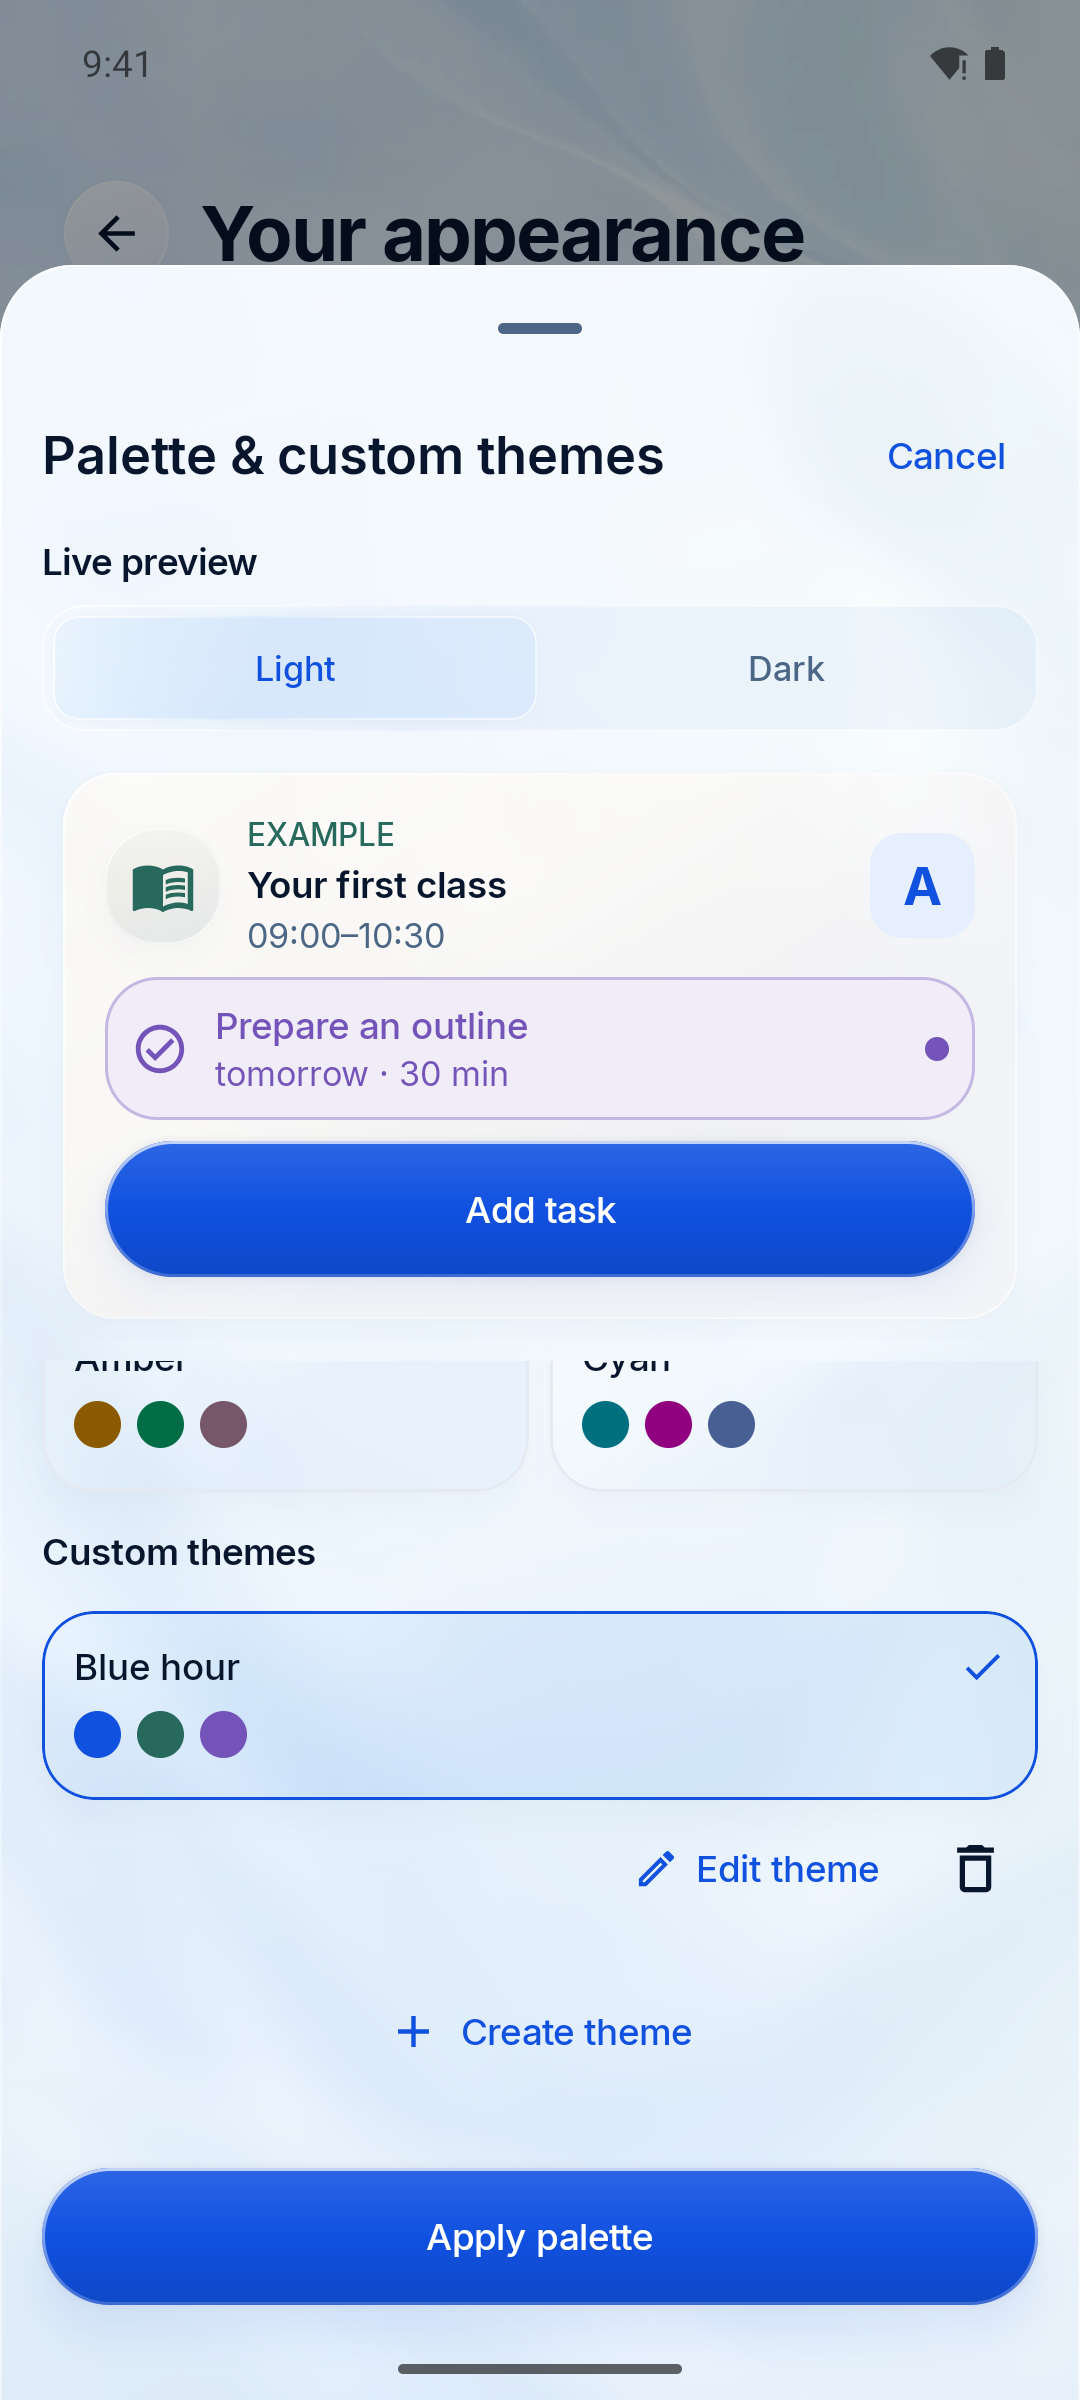
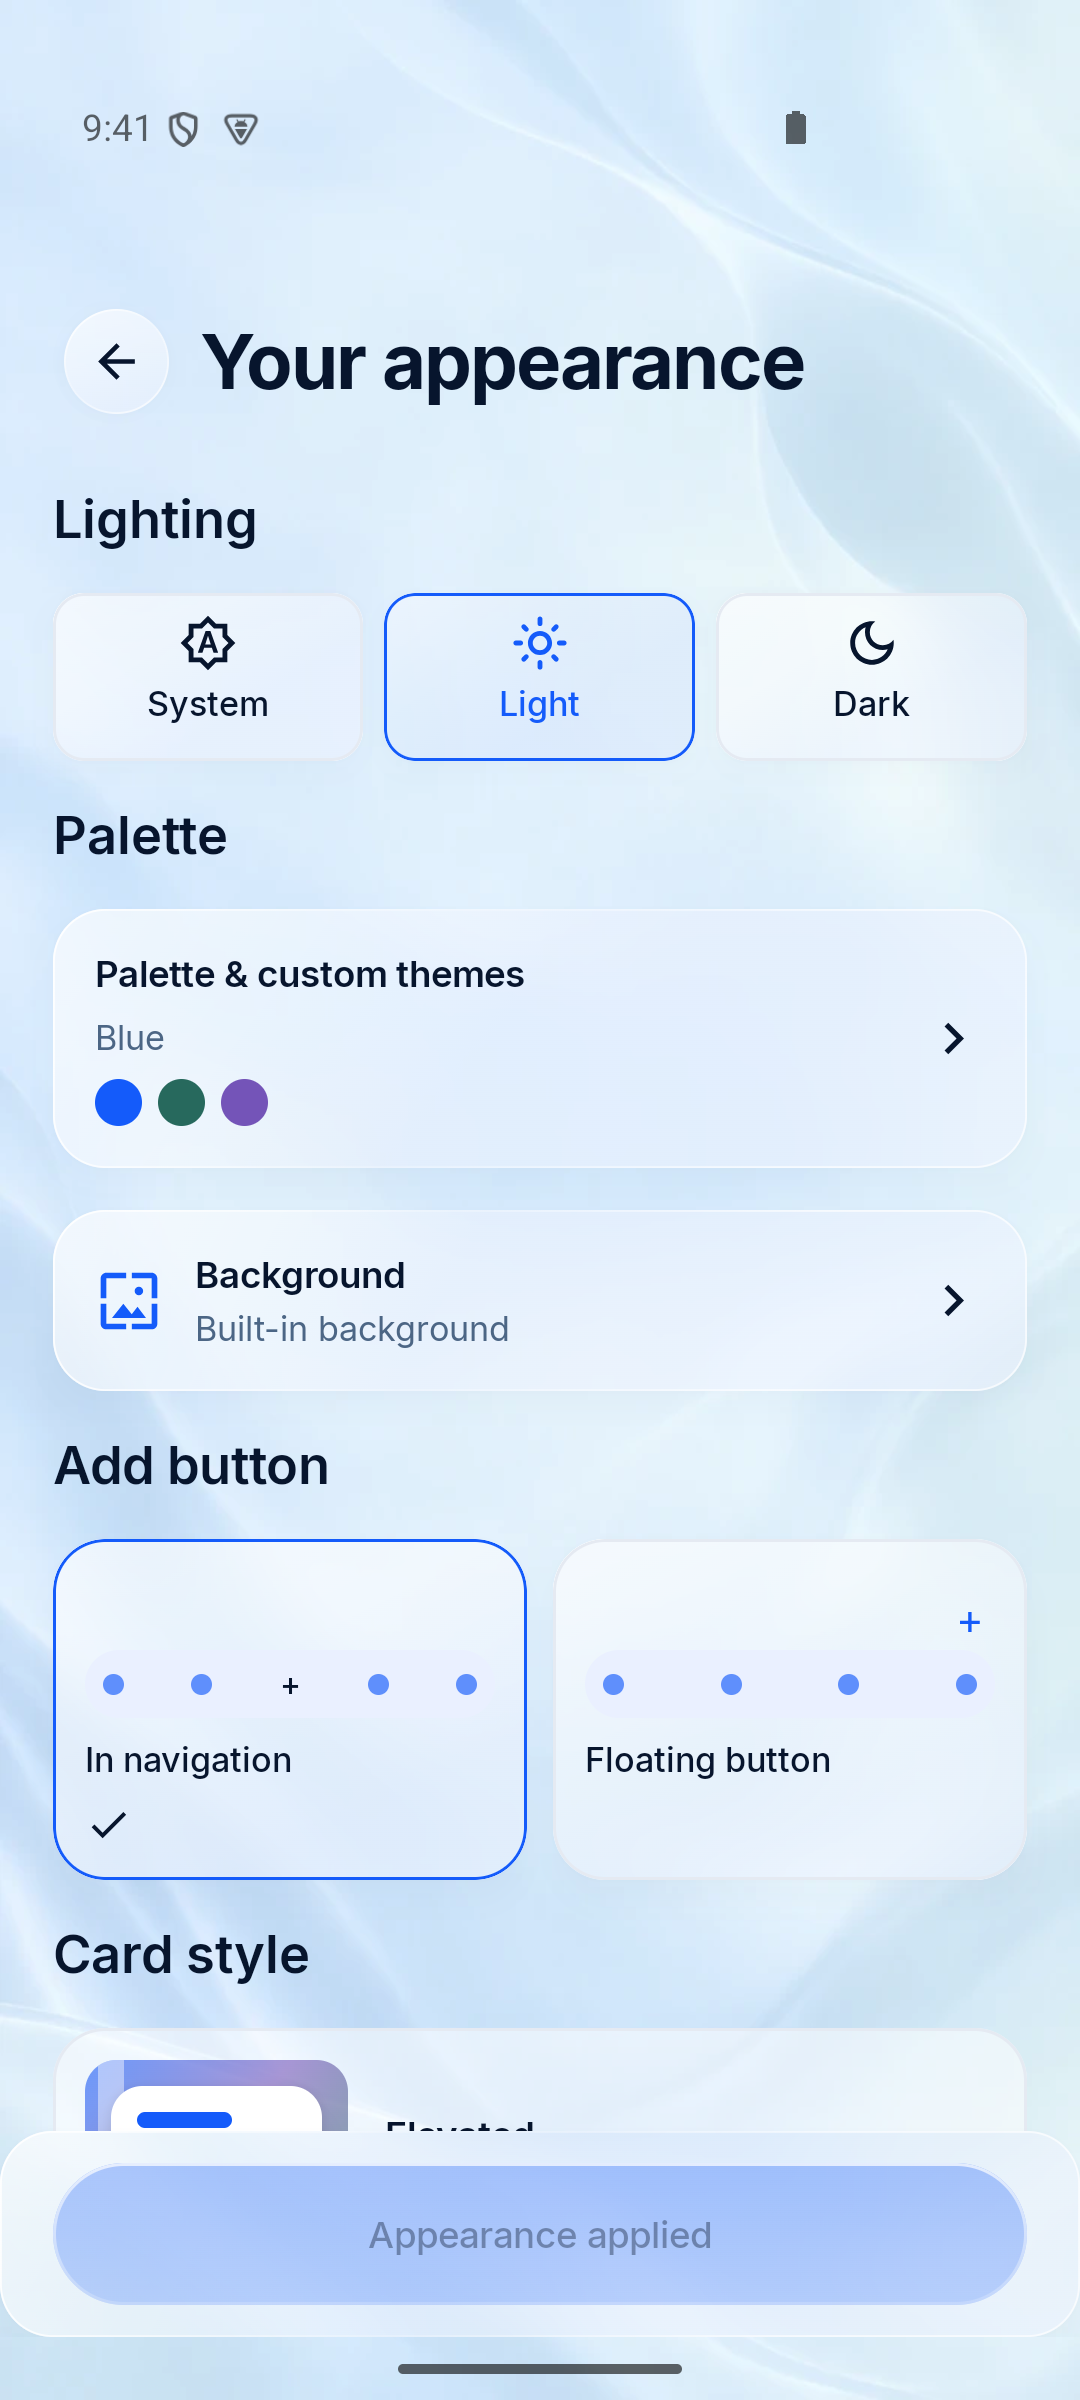
Refresh the 0.4.0 release gallery and document the new Studies experience

diff --git a/app/src/androidTest/java/com/kpyruy/takt/app/ReleaseGalleryTest.kt b/app/src/androidTest/java/com/kpyruy/takt/app/ReleaseGalleryTest.kt
@@ -1,0 +1,155 @@
+package com.kpyruy.takt.app
+
+import androidx.activity.compose.setContent
+import androidx.compose.foundation.layout.*
+import androidx.compose.ui.Modifier
+import androidx.compose.ui.semantics.SemanticsActions
+import androidx.compose.ui.test.*
+import androidx.compose.ui.test.junit4.createAndroidComposeRule
+import androidx.test.platform.app.InstrumentationRegistry
+import com.kpyruy.takt.core.data.*
+import com.kpyruy.takt.core.model.*
+import com.kpyruy.takt.core.ui.components.TaktGlassBackground
+import com.kpyruy.takt.core.ui.i18n.TaktI18n
+import com.kpyruy.takt.core.ui.theme.TaktTheme
+import com.kpyruy.takt.feature.settings.SettingsScreen
+import com.kpyruy.takt.feature.subjects.SubjectDetailScreen
+import kotlinx.coroutines.flow.first
+import kotlinx.coroutines.runBlocking
+import org.junit.Assert.assertTrue
+import org.junit.Assume.assumeTrue
+import org.junit.Rule
+import org.junit.Test
+import java.io.OutputStream
+import java.time.LocalDate
+import java.time.LocalTime
+
+/** Opt-in captures of production screens. All records are fictional and restricted to a review emulator. */
+class ReleaseGalleryTest {
+    @get:Rule val compose = createAndroidComposeRule<MainActivity>()
+    private val data get() = (compose.activity.application as TaktApplication).dataContainer
+
+    @Test fun captureEnglishReleaseGallery() {
+        assumeTrue(InstrumentationRegistry.getArguments().getString("releaseScreenshots") == "true")
+        ReleaseScreenshotSeedTest().seedEnglishShowcase()
+        val today = LocalDate.now()
+        runBlocking {
+            data.universityAccountRepository.remove()
+            data.settingsRepository.setAppearance(data.settingsRepository.settings.value.copy(
+                themeMode = AppThemeMode.LIGHT, themeFamily = ThemeFamily.BLUE, cardAppearance = CardAppearance.GLASS,
+                customWallpaper = null, selectedCustomThemeId = null, addButtonPlacement = AddButtonPlacement.CENTER,
+                customThemes = listOf(CustomColorTheme("blue-hour", "Blue hour", "4361EE", "8093F1", "6741D9"))))
+            data.settingsRepository.setWeekLayout(WeekLayout.COMPACT_LIST)
+            data.settingsRepository.setUisCurrentSemester(3)
+            // A fictional weekend workshop keeps the Today screenshot useful on the capture date.
+            if (today.dayOfWeek.value >= 6) listOf(
+                ScheduleRule("release-today-physics", "FYZI_6B", "Physics", today.dayOfWeek, LocalTime.of(9, 0), LocalTime.of(10, 30), ScheduleRecurrence.WEEKLY, "B-214", LessonType.LECTURE),
+                ScheduleRule("release-today-control", "TPAR_6B", "Control Systems", today.dayOfWeek, LocalTime.of(11, 0), LocalTime.of(12, 30), ScheduleRecurrence.WEEKLY, "Lab 2", LessonType.LAB),
+            ).forEach { data.scheduleRepository.upsertRule(it) }
+            data.studyContentRepository.upsertNote(CourseNote("release-waves", "FYZI_6B", "Waves and oscillations",
+                "Period and frequency: T = 1 / f\nWave speed: v = f × wavelength\nReview the worked examples before the next practice class.", System.currentTimeMillis()))
+            val courses = data.studyPlanRepository.observeCourses().first()
+            RoomStudentHubStore(data.database).write(StudentHubSnapshot(
+                identity = StudentIdentity("15", "Alex Novak", "Slovak University of Technology", "104826", "Faculty of Materials Science and Technology"),
+                studies = listOf(StudentStudy("101", "Industrial Informatics, Automation and Robotics", "STU", "Bc.", "2025–2028", true,
+                    currentSemester = 3, earnedCredits = 86, requiredCredits = 180, courses = courses,
+                    fees = listOf(StudentFee("isic", "101", "ISIC renewal", 2200, paidMinor = 0, status = StudentFeeStatus.UNPAID,
+                        dueDate = today.plusDays(7), issuedDate = today.minusDays(14))),
+                    scholarships = listOf(ScholarshipPayment("merit", "101", "Merit scholarship", 20000, paidOn = today.minusDays(12))),
+                    feesLoaded = true, scholarshipsLoaded = true, updatedAtEpochMillis = System.currentTimeMillis()),
+                    StudentStudy("202", "Applied Informatics", "STU", "Bc.", "2023–2025", false, earnedCredits = 78, requiredCredits = 180)),
+                currentStudyId = "101", viewedStudyId = "101", showPreviousStudies = true))
+            if (data.documentStore.isConnected) data.documentStore.saveCurrentToDocuments()
+            data.awaitRestoredPlanning()
+        }
+        compose.waitForIdle()
+        rootTab("Today")
+        capture("today")
+        rootTab("Calendar")
+        compose.onNode(hasText("Week") and hasClickAction()).performClick()
+        if (compose.onAllNodes(hasText("List") and hasClickAction()).fetchSemanticsNodes().isNotEmpty())
+            compose.onNode(hasText("List") and hasClickAction()).performClick()
+        capture("week-list")
+        rootTab("Subjects")
+        capture("subjects")
+        rootTab("Studies")
+        compose.onNodeWithTag("studies-credit-card").assertIsDisplayed()
+        capture("studies")
+        compose.onNodeWithTag("studies-tab-1").performClick()
+        capture("progress-details")
+        compose.onNodeWithTag("semester-toggle-3").performClick()
+        capture("progress")
+        compose.onNodeWithTag("studies-tab-2").performClick()
+        capture("finances")
+        compose.onNodeWithTag("studies-tab-0").performClick()
+        compose.mainClock.advanceTimeBy(500)
+        compose.onNodeWithTag("studies-profile").performScrollTo().performClick()
+        compose.onNodeWithTag("studies-profile-hero").assertIsDisplayed()
+        capture("student-profile")
+        compose.onNodeWithTag("studies-back").performClick()
+        rootTab("Subjects")
+        compose.onNodeWithText("Physics").performScrollTo().performClick()
+        compose.onNode(hasText("Exam") and hasClickAction()).performClick()
+        capture("exam")
+        compose.onNode(hasText("Notes") and hasClickAction()).performClick()
+        capture("notes")
+
+        val settings = data.settingsRepository.settings.value
+        compose.activityRule.scenario.onActivity { activity -> activity.setContent {
+            TaktI18n.use(AppLanguage.ENGLISH)
+            TaktTheme(settings) { TaktGlassBackground { Box(Modifier.fillMaxSize().statusBarsPadding().navigationBarsPadding()) {
+                SettingsScreen(data.settingsRepository, data.backupRepository, data.documentStore,
+                    data.studyPlanRepository, data.universityAccountRepository, { _, reply -> reply(DeviceAuthenticationResult.CANCELLED) },
+                    (activity.application as TaktApplication).appReleaseRepository, {}, guidedPage = "appearance")
+            } } }
+        } }
+        capture("appearance")
+        captureDocuments(settings)
+    }
+
+    private fun rootTab(label: String) {
+        compose.onNode(hasText(label) and hasClickAction() and hasAnyAncestor(hasTestTag("root-navigation")))
+            .performClick()
+        compose.waitForIdle()
+    }
+
+    private fun captureDocuments(settings: AppSettings) {
+        assertTrue("Connect Documents on the disposable emulator before release captures", data.documentStore.isConnected)
+        val course = runBlocking { data.studyPlanRepository.observeCourses().first().first { it.code == "FYZI_6B" } }
+        val files = listOf(
+            CourseDocumentFile("98101", "98102", "Lecture slides · Waves and oscillations", "application/pdf", "lecture-slides.pdf",
+                sizeLabel = "1.8 MiB", downloadedFileName = "lecture-slides.pdf", revision = "version-1", downloadedRevision = "version-1"),
+            CourseDocumentFile("98101", "98103", "Laboratory guide · Motion and forces", "application/pdf", "laboratory-guide.pdf", sizeLabel = "640 KiB", revision = "version-1"))
+        val repository = object : CourseDocumentsRepository {
+            override suspend fun cachedDocuments(course: Course, activeCourseCodes: Set<String>) = CourseDocumentListing(files, true)
+            override suspend fun documents(course: Course, activeCourseCodes: Set<String>, refresh: Boolean) = CourseDocumentListing(files, true)
+            override suspend fun download(document: CourseDocumentFile, output: OutputStream): DownloadedCourseDocument = error("Screenshots do not download attachments")
+        }
+        val source = java.io.File(compose.activity.cacheDir, "release-lecture.pdf").apply {
+            writeBytes(InstrumentationRegistry.getInstrumentation().context.assets.open("course-document.pdf").use { it.readBytes() })
+        }
+        runBlocking { data.documentStore.saveDownloadedDocument(course.code, source, "lecture-slides.pdf", "application/pdf") }
+        compose.activityRule.scenario.onActivity { activity -> activity.setContent {
+            TaktI18n.use(AppLanguage.ENGLISH)
+            TaktTheme(settings) { TaktGlassBackground { Box(Modifier.fillMaxSize().statusBarsPadding().navigationBarsPadding()) {
+                SubjectDetailScreen(data.studyPlanRepository, data.gradeRepository, data.scheduleRepository,
+                    data.settingsRepository, data.studyContentRepository, data.examRepository, data.documentStore,
+                    uisManaged = true, courseId = course.id, onBack = {}, courseDocumentsRepository = repository)
+            } } }
+        } }
+        compose.onNodeWithTag("course-documents").performScrollTo().performClick()
+        compose.waitUntil(5_000) { compose.onAllNodesWithTag("documents-loading").fetchSemanticsNodes().isEmpty() }
+        compose.onNodeWithTag("course-document-98102").assertIsDisplayed()
+        capture("documents")
+        source.delete()
+    }
+
+    private fun capture(name: String) {
+        compose.waitForIdle()
+        val dismiss = SemanticsMatcher.keyIsDefined(SemanticsActions.Dismiss)
+        if (compose.onAllNodes(dismiss).fetchSemanticsNodes().size == 1 &&
+            compose.onAllNodesWithTag("course-documents-sheet").fetchSemanticsNodes().isEmpty())
+            compose.onNode(dismiss).performSemanticsAction(SemanticsActions.Dismiss) { it() }
+        captureStudiesScreenshot("release-04-$name.png")
+    }
+}

diff --git a/app/src/androidTest/java/com/kpyruy/takt/app/ReleaseScreenshotSeedTest.kt b/app/src/androidTest/java/com/kpyruy/takt/app/ReleaseScreenshotSeedTest.kt
@@ -30,7 +30,8 @@ class ReleaseScreenshotSeedTest {
             "Use -e releaseScreenshots true only on a disposable emulator",
             InstrumentationRegistry.getArguments().getString("releaseScreenshots") == "true",
         )
-        val data = TaktDataContainer(InstrumentationRegistry.getInstrumentation().targetContext)
+        assumeTrue("Release fixtures are emulator-only", android.os.Build.MODEL.contains("sdk_gphone") || android.os.Build.HARDWARE == "ranchu")
+        val data = (InstrumentationRegistry.getInstrumentation().targetContext.applicationContext as TaktApplication).dataContainer
         val today = LocalDate.now()
         val monday = today.minusDays((today.dayOfWeek.value - DayOfWeek.MONDAY.value).toLong())
 

diff --git a/README.md b/README.md
@@ -2,27 +2,34 @@
 
 Takt is an offline-first Android study planner for university schedules, grades, deadlines, and study progress.
 
-Version 0.3.0 is an early release. Takt is built with Kotlin and Jetpack Compose, and its schedule, grades, and study plan are separate modules.
+Takt is built with Kotlin and Jetpack Compose. Version 0.4.0 is being prepared for release; the gallery below shows the current release candidate. Download the latest published build from Releases.
 
 ## Screenshots
 
+Captured from the **0.4.0 development preview** on an Android 15 emulator, in English with fictional study data. A fresh installation starts with an empty study plan.
+
 | Today | Weekly schedule |
 | :---: | :---: |
-| <img src="docs/screenshots/today.png" alt="Takt 0.3.0 Today screen with a class timeline, breaks and upcoming work" width="260"><br>Classes, breaks, deadlines and task filters. | <img src="docs/screenshots/week-list.png" alt="Takt 0.3.0 weekly list grouping classes and tasks by day" width="260"><br>A weekly overview of classes and upcoming work. |
-| Exam preparation | Study progress |
-| <img src="docs/screenshots/exam.png" alt="Exam date, target grade, points needed and eligibility requirements" width="260"><br>Target grades, achievable points and exam eligibility. | <img src="docs/screenshots/progress.png" alt="Study plan with credit totals, semesters and subject status" width="260"><br>Credits, semesters and subject completion in one place. |
-| Course notes | Custom themes |
-| <img src="docs/screenshots/notes.png" alt="Course notes with readable previews and a saved lecture link" width="260"><br>Course notes with previews, links and attachments. | <img src="docs/screenshots/appearance.png" alt="Named custom theme Blue hour with a live appearance preview" width="260"><br>Named themes with a live preview before applying. |
+| <img src="docs/screenshots/today.png" alt="Today: Classes, deadlines and compact task requirements." width="260"><br>Classes, deadlines and compact task requirements. | <img src="docs/screenshots/week-list.png" alt="Weekly schedule: Classes and work grouped by day." width="260"><br>Classes and work grouped by day. |
+| Studies overview | Study progress |
+| <img src="docs/screenshots/studies.png" alt="Studies overview: Credits, university records and finances in one place." width="260"><br>Credits, university records and finances in one place. | <img src="docs/screenshots/progress.png" alt="Study progress: All semesters, course results and status filters." width="260"><br>All semesters, course results and status filters. |
+| University finances | Student profile |
+| <img src="docs/screenshots/finances.png" alt="University finances: Fees, ISIC renewal and scholarship history." width="260"><br>Fees, ISIC renewal and scholarship history. | <img src="docs/screenshots/student-profile.png" alt="Student profile: Student identity and current or previous studies." width="260"><br>Student identity and current or previous studies. |
+| Course documents | Appearance |
+| <img src="docs/screenshots/documents.png" alt="Course documents: Linked local files with clear download status." width="260"><br>Linked local files with clear download status. | <img src="docs/screenshots/appearance.png" alt="Appearance: Themes, card styles and Add-button placement." width="260"><br>Themes, card styles and Add-button placement. |
+| Exam preparation | Course notes |
+| <img src="docs/screenshots/exam.png" alt="Exam preparation: Points, target grades and exam eligibility." width="260"><br>Points, target grades and exam eligibility. | <img src="docs/screenshots/notes.png" alt="Course notes: Readable notes alongside your course materials." width="260"><br>Readable notes alongside your course materials. |
 
-Captured from the signed **0.3.0** release on an Android 15 Pixel 6 emulator, using English and fictional study data. A new installation starts with an empty study plan, not the example schedule.
+## What's new in 0.4.0
 
-## What's new in 0.3.0
+- **Studies** combines the student profile, progress, university fees, ISIC records and scholarship history. Switch between current and previous studies while keeping the current timetable separate.
+- **Instant course documents:** saved links and local files appear together, with UIS metadata checked in the background. Current files open locally; an updated document gets a download icon and a named notification, and replaces the old file when downloaded.
+- **More personal navigation:** choose the central Add button or an animated floating button, and pick course colors from a palette or return to Automatic.
+- **Clearer work cards:** single-line titles and course codes, compact requirement icons with full explanations, and aligned points and dates.
+- **More reliable UIS state:** automatic semester selection also works after restoring a backup; cached student records refresh in the background with retries.
+- **More useful backups:** university records, course folder links and downloaded-file associations travel with the backup, and the restore preview shows study-related changes.
 
-- Liquid Glass interface with updated navigation, calendar, subject pages and notes.
-- Named custom color themes, personal background images and three card styles. Appearance and background images are included in backups.
-- STU UIS course documents with file names and downloads to the connected `Documents/Takt/<COURSE_CODE>` folder.
-- Cached course teachers and consultation hours that refresh in the background and travel with backups.
-- Safer backup validation and restore recovery, prompt UIS request cancellation, and editor drafts that remain available after failed saves or activity recreation.
+Downloaded document bytes remain in `Documents/Takt/<COURSE_CODE>` and are not embedded in the backup. Copy those files separately when moving devices and reconnect the folder in Takt.
 
 ## Install
 
@@ -40,7 +47,7 @@ You can use Takt entirely offline. Optional STU UIS integration can import your 
 - `feature:home` — dashboard and today's timetable
 - `feature:calendar` — timetable/calendar
 - `feature:subjects` — subjects and grade tracking
-- `feature:studyplan` — six-semester study plan and credit progress
+- `feature:studyplan` — student profile, study history, credit progress and university finances
 - `feature:settings` — app preferences, language, and backup controls
 
 ## Current target
